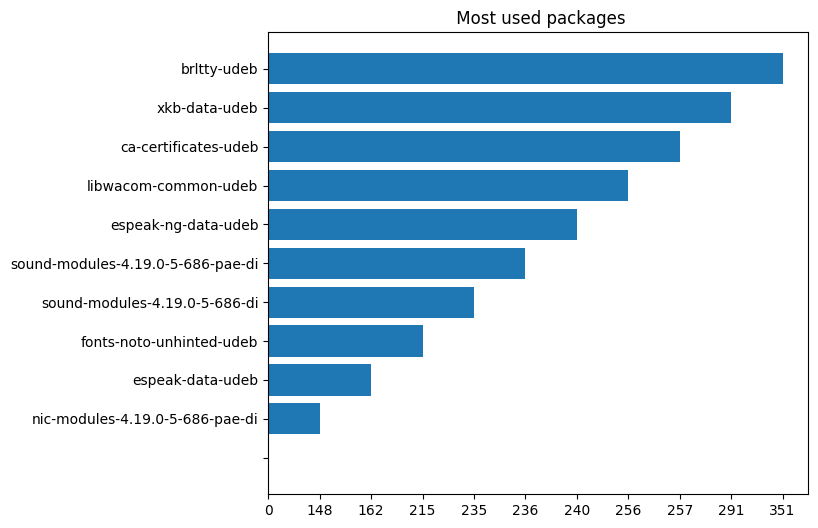
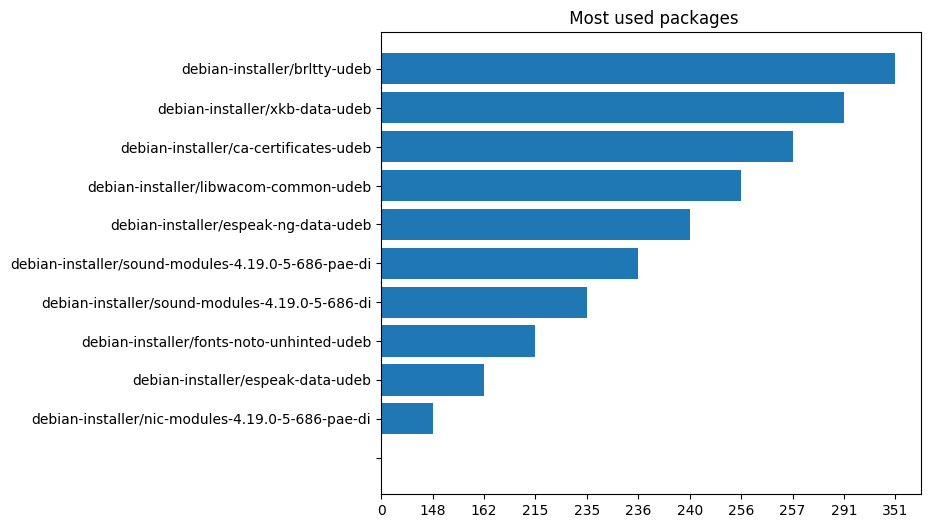
fixed bash command to be BSD compatible

diff --git a/lib/file_utils.py b/lib/file_utils.py
@@ -19,14 +19,10 @@ def plot_results(contentsFile, showPlot):
     :param contentsFile: file object
     """
 
-    try:
-        filename = contentsFile.get_filename_path().name
-    except:
-        filename = contentsFile.get_filename_path()
+    filename = contentsFile.get_filename_path().name
 
     csv_file = Path(CONFIG["statistics"]["plot_folder"] +"/"+ CONFIG["statistics"]["prefix"]
                             + filename + ".csv")
-    # print(" Searching for plot data in "+ csv_file)
     if Path(csv_file.stem + ".png").exists():
         print(" The graph was already in the plot folder.")
         return
@@ -43,8 +39,10 @@ def plot_results(contentsFile, showPlot):
 
     # names are too long and in reverse order:
     packages  = list(reversed([t[0] for t in data]))
-    packages  = [p.split("/")[1] for p in packages]
+    if "/" in packages:
+        packages  = [p.split("/")[1] for p in packages]
     packages  = [''] + packages
+
     # 0 needs to be added
     files_num = list(reversed([t[1] for t in data]))
     files_num = ['0'] + files_num
@@ -98,7 +96,6 @@ def download_file(contentsFile):
     creation_date = contentsFile.get_creation_date()
 
     local_archive_name = "download/"+ url.split("/")[-1][:-3] +"_"+ creation_date + ".gz"
-    #local_archive_name = Path(local_archive_name)
 
     contentsFile.set_creation_date(creation_date)
     contentsFile.set_archive_name(local_archive_name)

diff --git a/package_statistics.py b/package_statistics.py
@@ -52,6 +52,7 @@ def print_results(stats, isFile=False):
 #      MAIN                   ##
 ################################
 if __name__ == '__main__':
+    print("\n")
     define_arguments()
 
     contentsFile = File.File(cmdargs)
@@ -94,3 +95,4 @@ if __name__ == '__main__':
     print_results(stats)
 
     file_utils.plot_results(contentsFile, cmdargs.showPlot)
+    print("\n")
